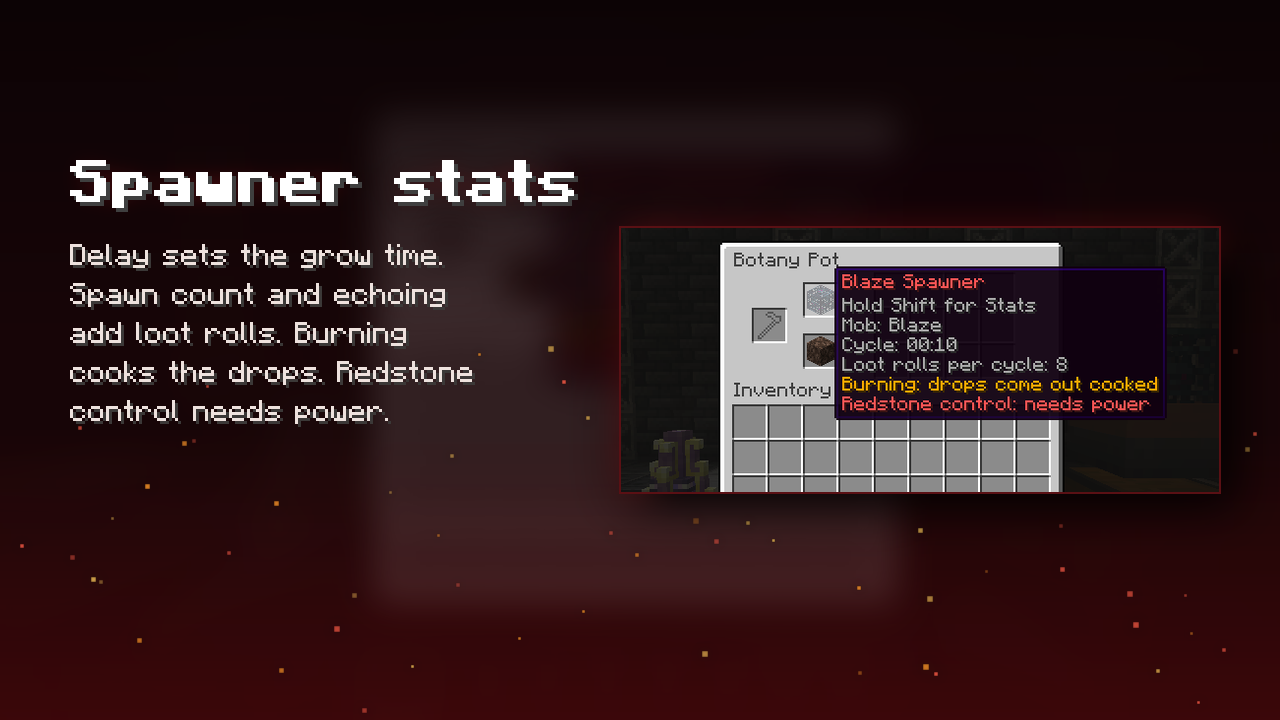
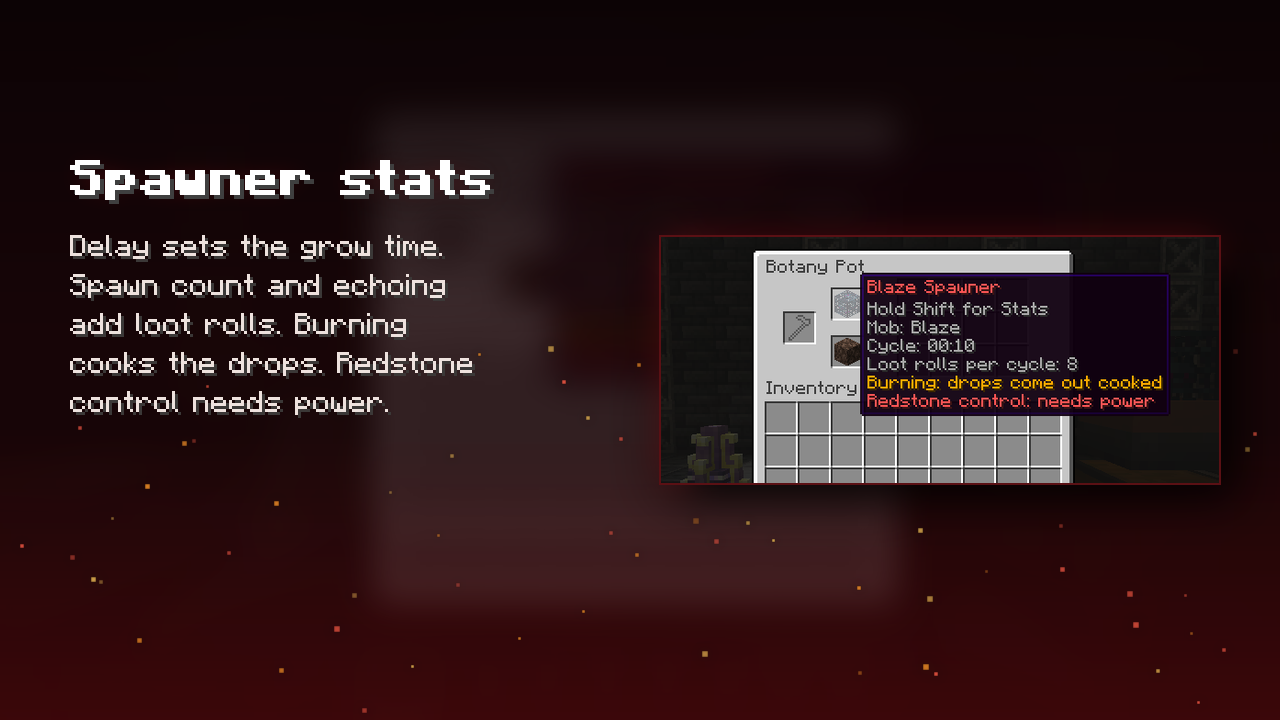
Listing art: one title size that fits beside every screenshot

diff --git a/tools/listing.py b/tools/listing.py
@@ -281,14 +281,24 @@ def gallery():
         ('03-spawner-stats.png', 'tooltip.png', 'Spawner stats', ['Delay sets the grow time.', 'Spawn count and echoing', 'add loot rolls. Burning', 'cooks the drops. Redstone', 'control needs power.'], (150, 60, 760, 330)),
         ('04-hopper-pots.png', 'chest.png', 'Hopper pots', ['Hopper pots move the loot', 'into a chest below. Player', 'kill drops still drop.'], (150, 40, 760, 260)),
     ]
+    # one title size for every page: the largest that fits beside every screenshot
+    TS = 6
+    while TS > 3 and any(mc_width(t, TS, True) > W - (560 if cr else 580) - 60 - 110 for _, _, t, _, cr in pages):
+        TS -= 1
     for name, src, title, lines, crop in pages:
         img = shot(src)
         c = bg(img)
-        y = text_block(c, 70, 200 if len(lines) < 4 else 160, title, lines, 6, 3)
+        win = window(img, 560 if crop else 580, crop)
+        wx = W - win.width - 60
+        # title shrinks until it fits left of the screenshot; body lines must fit too
+        room = wx - 70 - 40
+        ts = TS
+        assert mc_width(title, ts, True) <= room, (name, room)
+        assert all(mc_width(ln, 3) <= room for ln in lines), (name, room)
+        y = text_block(c, 70, 200 if len(lines) < 4 else 160, title, lines, ts, 3)
         if name.startswith('01'):
             chips(c, 72, y + 16)
-        win = window(img, 600 if crop else 620, crop)
-        place(c, win, W - win.width - 60, (H - win.height) // 2)
+        place(c, win, wx, (H - win.height) // 2)
         save(c, name)
     p = perf_chart().resize((W, round(820 * W / W)))
     c = bg(shot('room_hrbs.png'))
